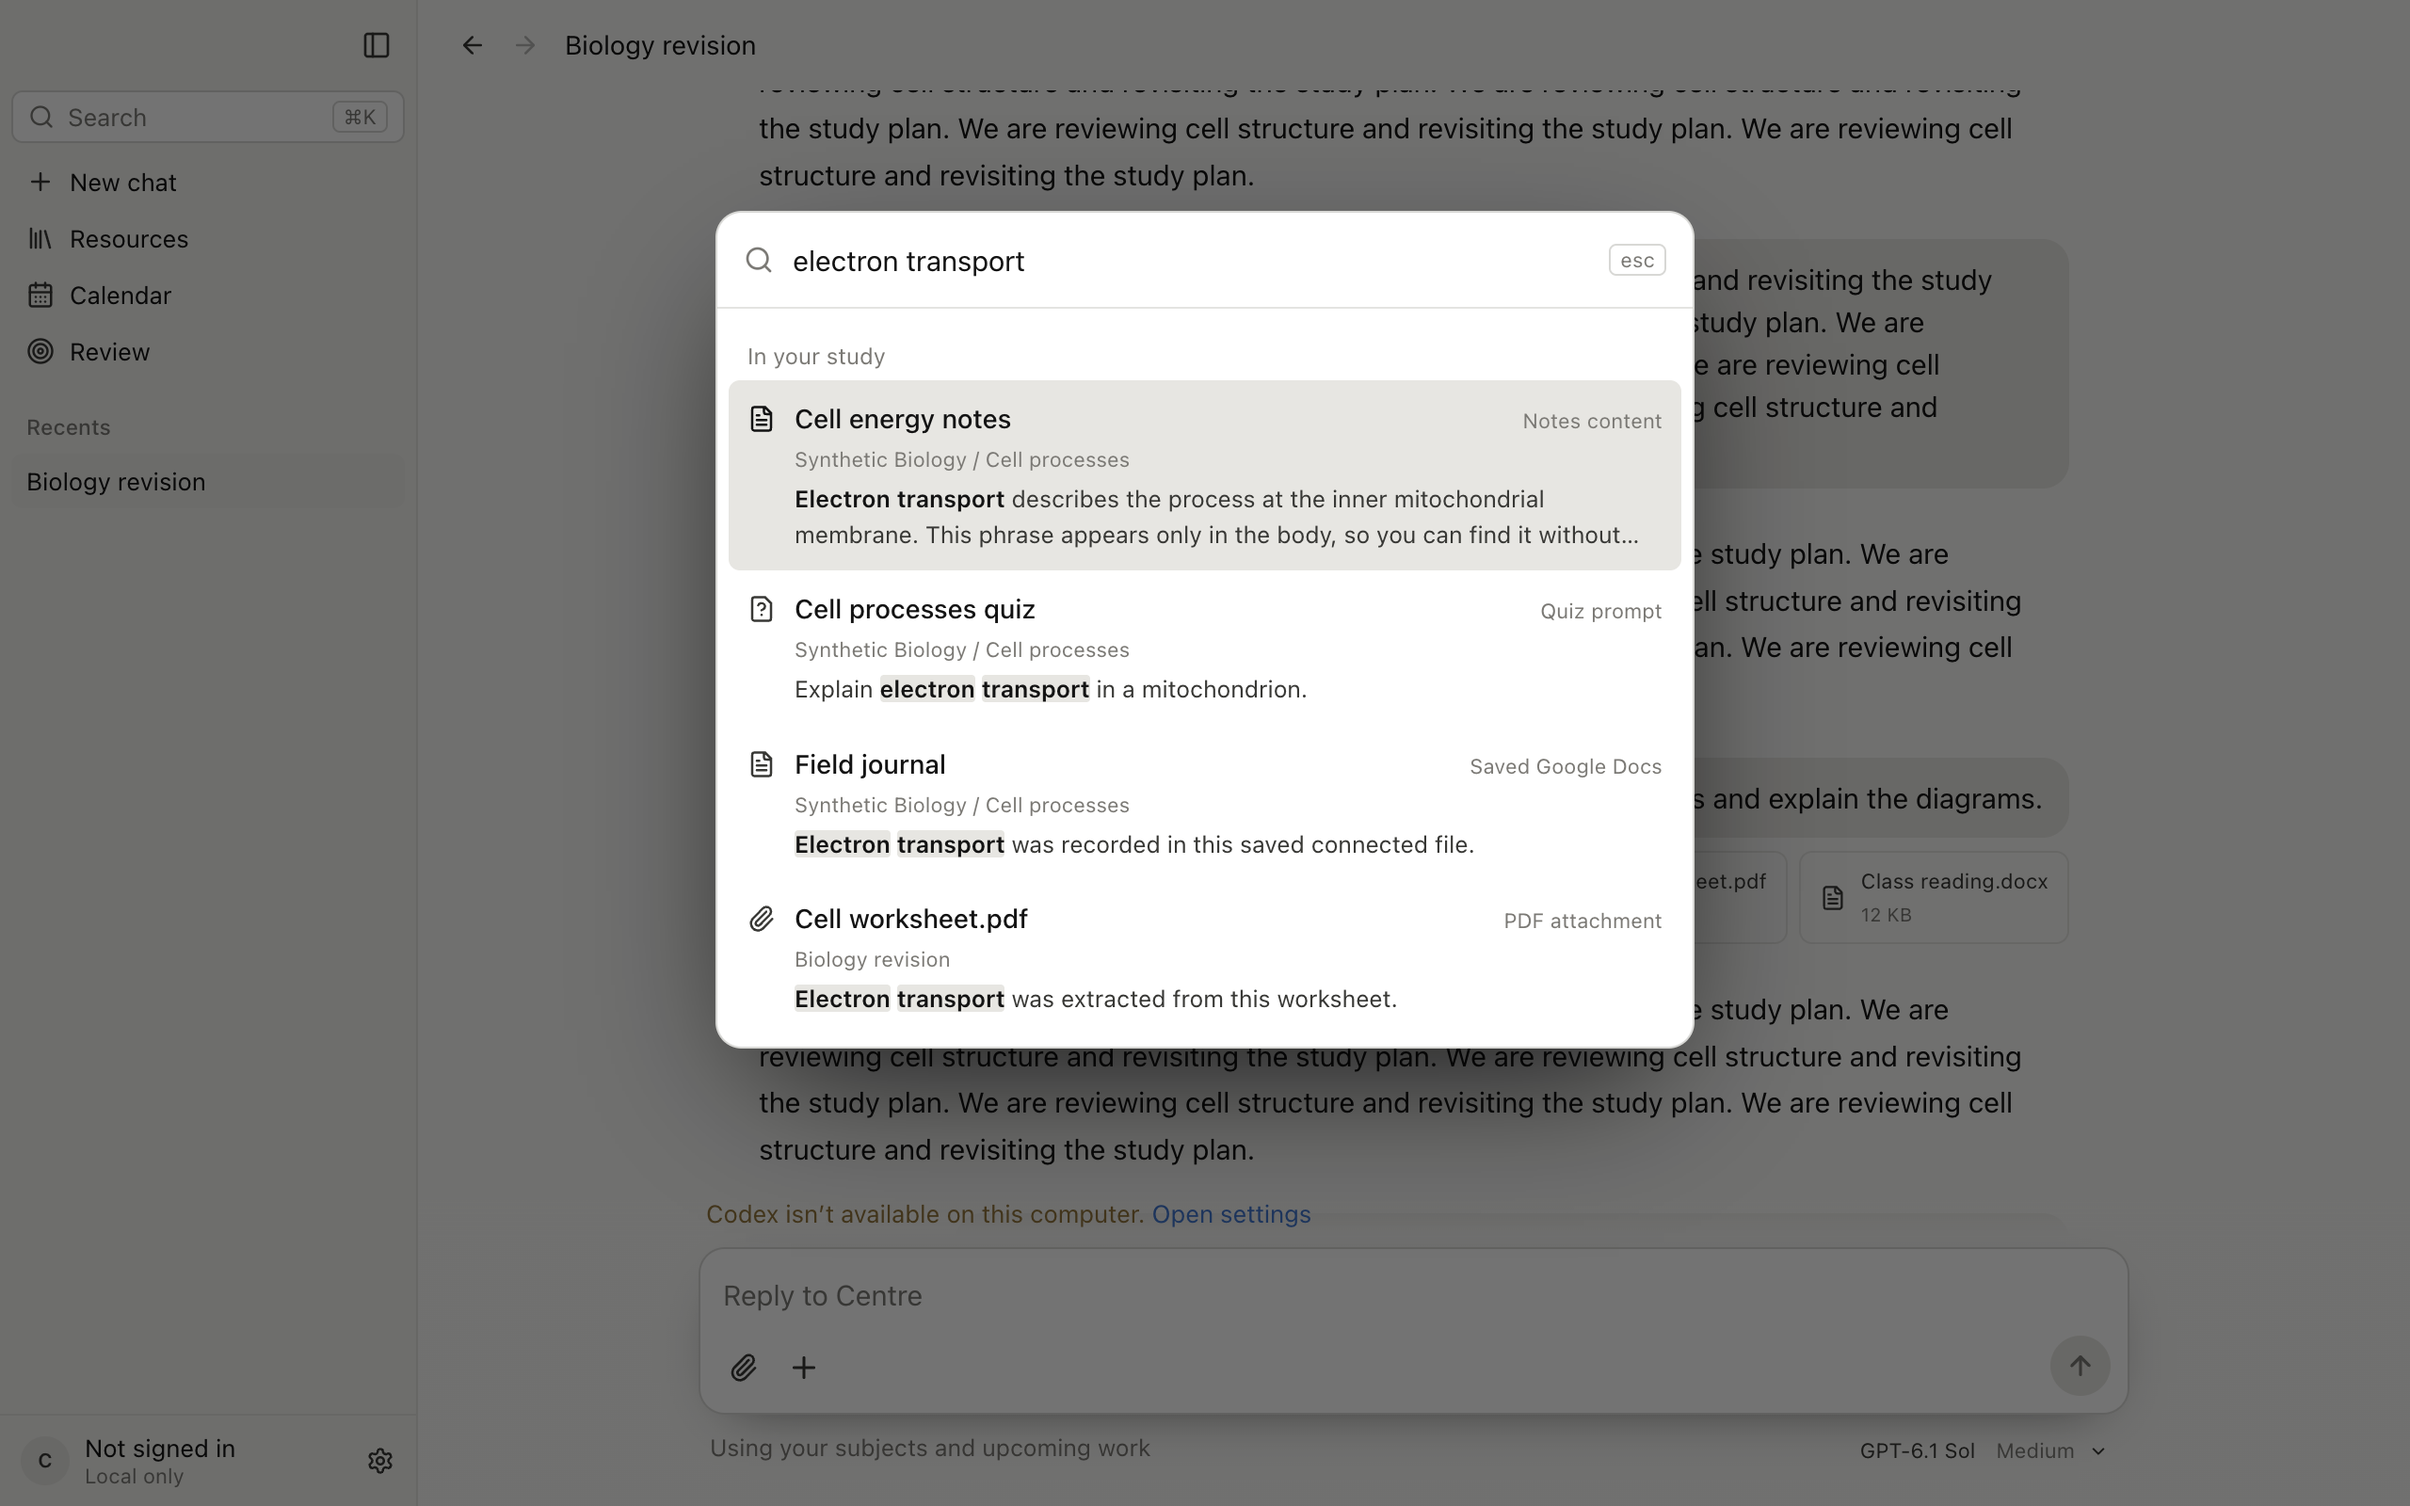
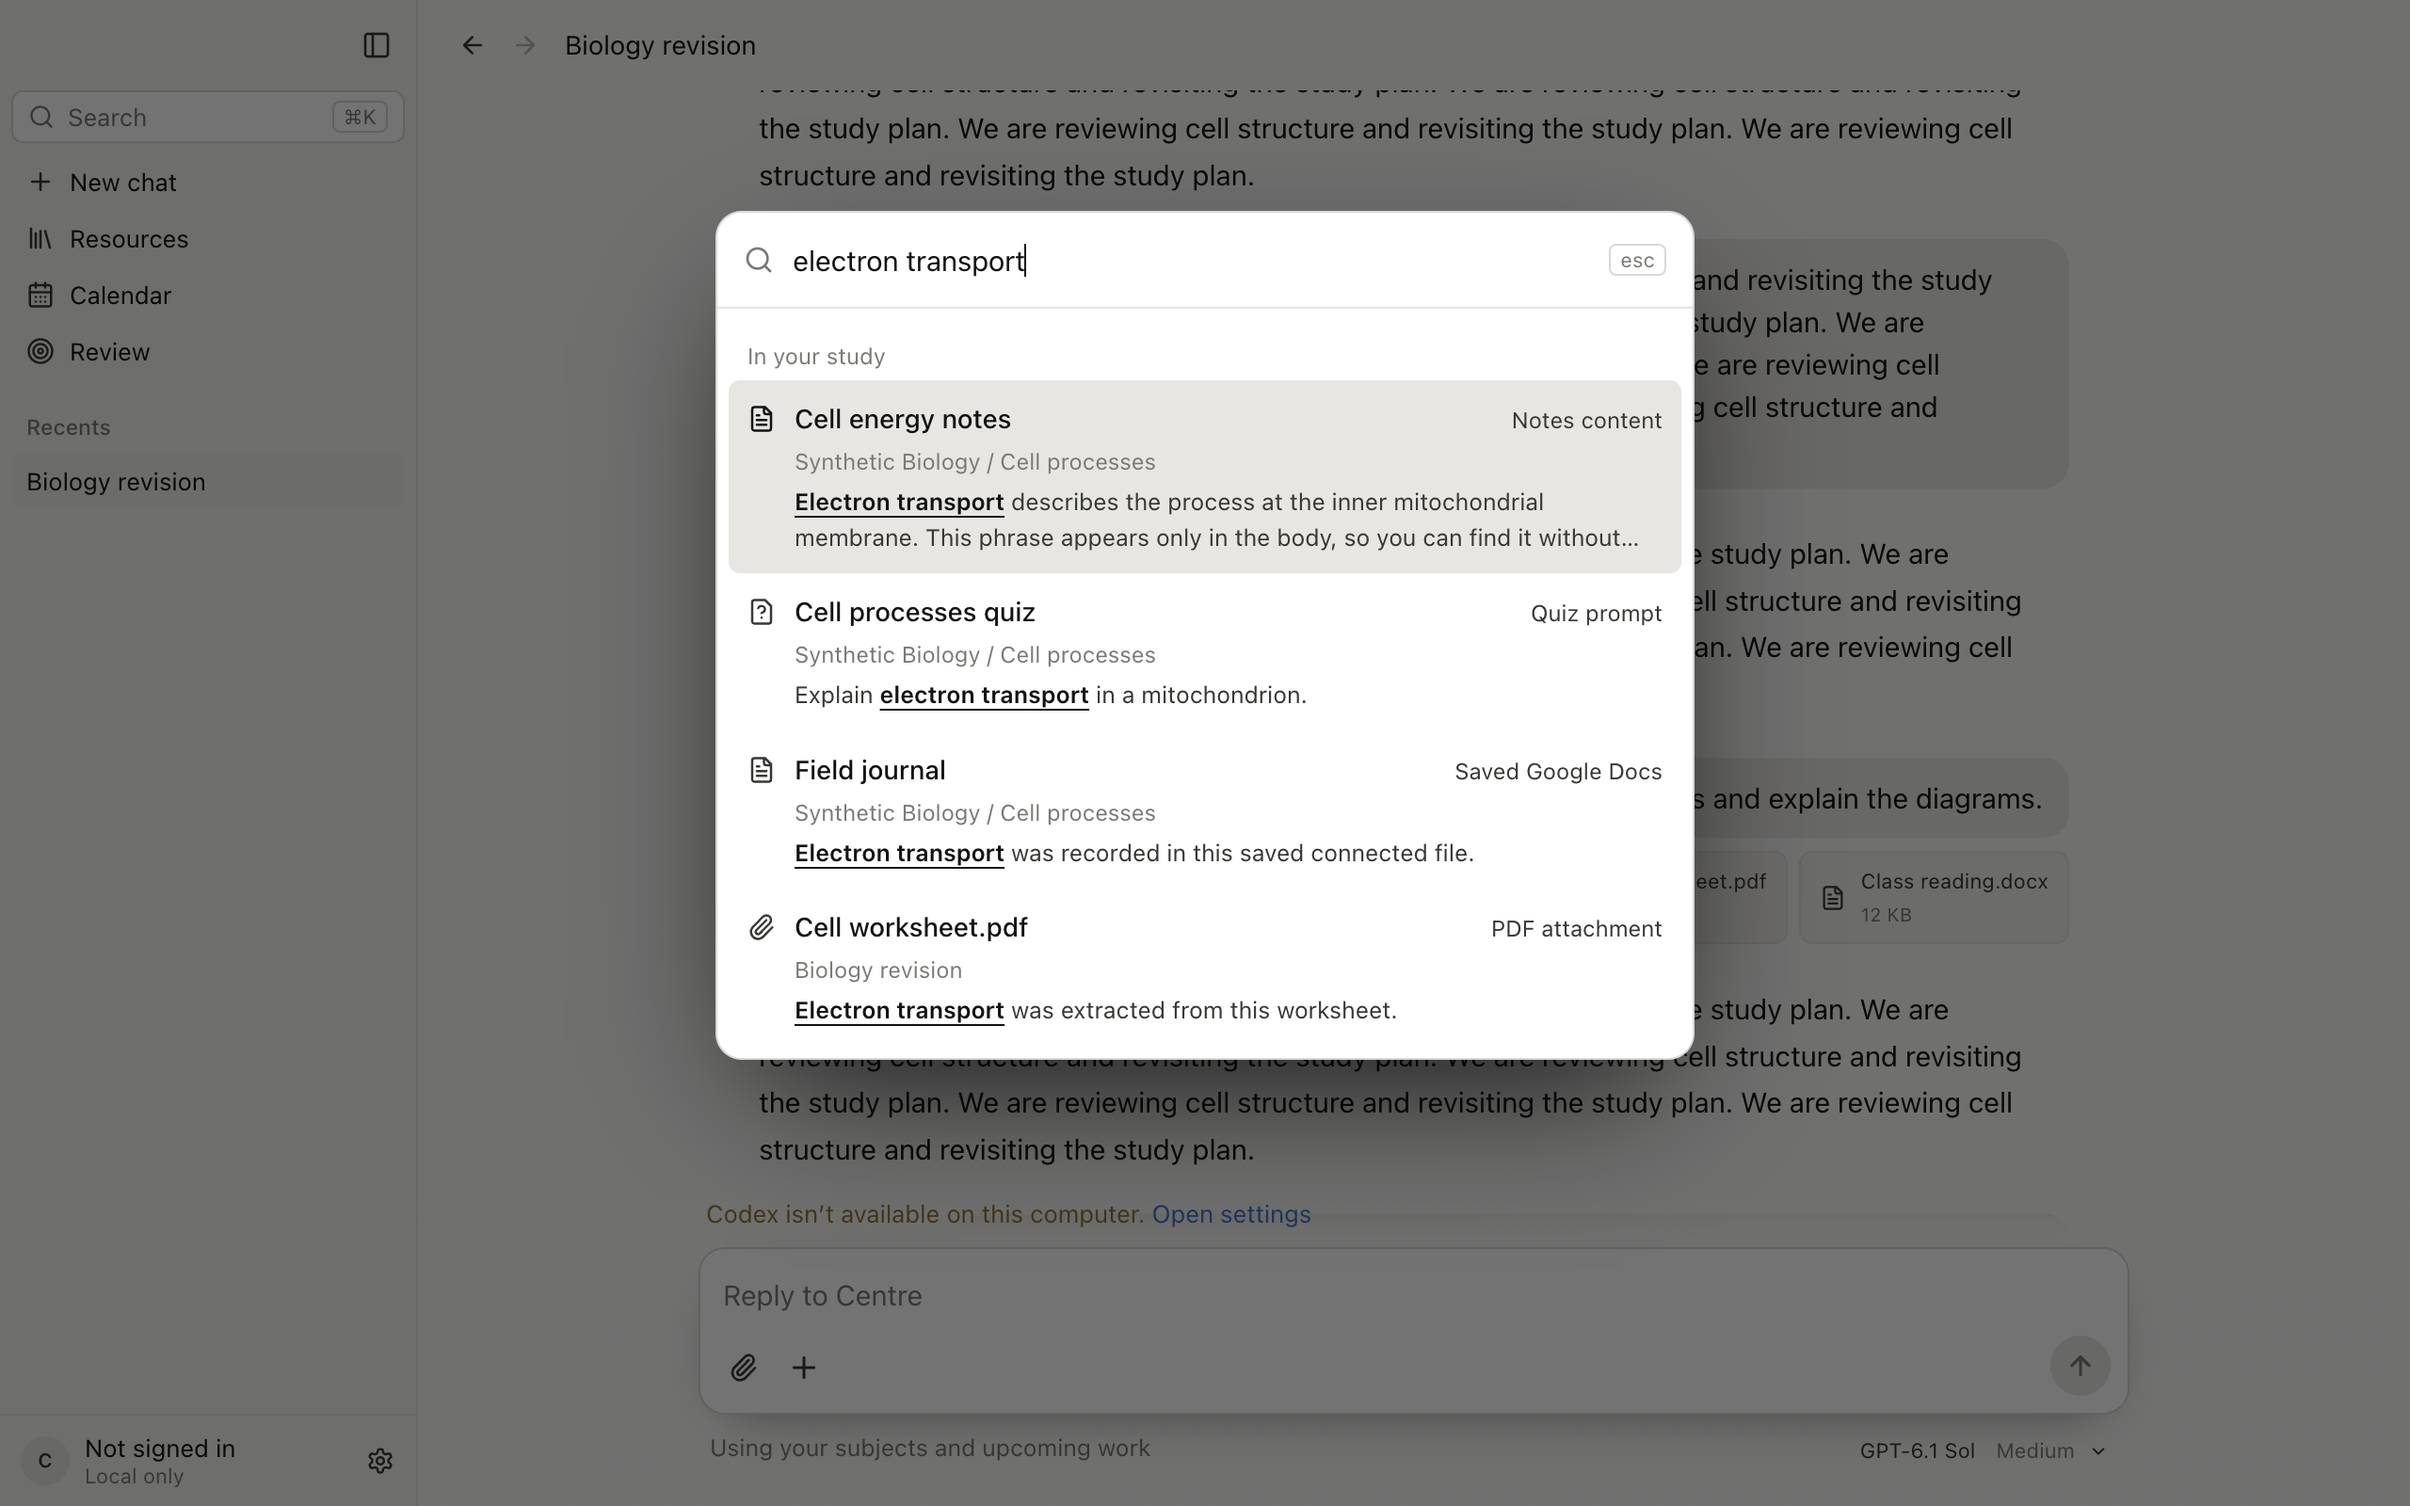
Fix SEARCH-2 phrase ranges, selected contrast and ellipsis

diff --git a/server/search-index.test.ts b/server/search-index.test.ts
@@ -180,7 +180,7 @@ test('Unicode, punctuation, empty queries, and bounded snippets retain valid hig
     assert.ok(result.highlights.length > 0 && result.highlights.length <= 24);
     for (const [start, end] of result.highlights) {
       assert.ok(start >= 0 && start < end && end <= result.snippet.length);
-      assert.equal(result.snippet.slice(start, end), 'evidence');
+      assert.match(result.snippet.slice(start, end), /^evidence(?:\s+evidence)*$/u);
     }
   }
 });
@@ -374,7 +374,7 @@ test('the final query token matches a longer indexed word and highlights that or
     assert.deepEqual(results.map(result => result.id), ['resource:mitochondrial']);
     const result = results[0];
     assert.ok(result);
-    assert.ok(result.highlights.some(([start, end]) => result.snippet.slice(start, end) === 'mitochondrial'));
+    assert.ok(result.highlights.some(([start, end]) => result.snippet.slice(start, end).includes('mitochondrial')));
   }
 });
 
@@ -423,4 +423,15 @@ test('deleted content disappears even while an attachment rebuild is waiting on 
   assert.deepEqual(index.search('chatprivatephrase'), []);
   release();
   await rebuilding;
+});
+
+test('phrase highlights merge across whitespace and clipped snippets keep ellipsis attached', async () => {
+  const snapshot = emptySnapshot();
+  snapshot.resources.push(resource('phrase', { content: `Opening electron transport ${'supporting context '.repeat(40)}` }));
+  const index = new SearchIndex(noAttachments);
+  await index.rebuild(snapshot);
+  const [hit] = index.search('electron transport');
+  assert.ok(hit);
+  assert.deepEqual(hit.highlights.map(([start, end]) => hit.snippet.slice(start, end)), ['electron transport']);
+  assert.ok(hit.snippet.endsWith('\u00a0…'));
 });

diff --git a/src/ui/centre.css b/src/ui/centre.css
@@ -2400,10 +2400,10 @@ kbd {
 .palette__match { display: grid; gap: 3px; min-width: 0; flex: 1; }
 .palette__heading { display: flex; align-items: baseline; gap: 12px; min-width: 0; }
 .palette__heading .palette__label { flex: 1; max-width: none; font-weight: 500; }
-.palette__source { flex: none; color: var(--text-3); font-size: 0.6875rem; }
-.palette__context { color: var(--text-3); font-size: 0.6875rem; overflow: hidden; text-overflow: ellipsis; white-space: nowrap; }
+.palette__source { flex: none; color: var(--text-2); font-size: 0.75rem; }
+.palette__context { color: var(--text-3); font-size: 0.75rem; overflow: hidden; text-overflow: ellipsis; white-space: nowrap; }
 .palette__snippet { color: var(--text-2); font-size: 0.78125rem; line-height: 1.5; overflow-wrap: anywhere; display: -webkit-box; -webkit-box-orient: vertical; -webkit-line-clamp: 2; overflow: hidden; }
-.palette__snippet mark { color: var(--text); background: var(--surface-4, var(--surface-3)); border-radius: 2px; font-weight: 600; }
+.palette__snippet mark { color: var(--text); background: transparent; font-weight: 600; text-decoration: underline; text-decoration-thickness: 1px; text-underline-offset: 3px; }
 [id^='resource-question-'], [id^='chat-message-'] { scroll-margin-block: 24px; }
 
 /* Forms */

diff --git a/server/search-index.ts b/server/search-index.ts
@@ -93,8 +93,8 @@ export function makeSearchSnippet(text: string, positions: ReadonlyMap<string, T
   const raw = text.slice(start, end);
   const leftTrim = raw.length - raw.trimStart().length;
   const visibleText = raw.trim();
-  const prefix = start > beginning ? '… ' : '';
-  const suffix = end < limit ? ' …' : '';
+  const prefix = start > beginning ? '…\u00a0' : '';
+  const suffix = end < limit ? '\u00a0…' : '';
   const snippet = `${prefix}${visibleText}${suffix}`.slice(0, MAX_SEARCH_SNIPPET_LENGTH);
   const visibleStart = start + leftTrim;
   const snippetStart = prefix.length;
@@ -118,7 +118,13 @@ export function makeSearchSnippet(text: string, positions: ReadonlyMap<string, T
   }
   highlights.sort((left, right) => left[0] - right[0]);
   highlights.length = Math.min(highlights.length, 24);
-  return { snippet, highlights };
+  const merged: [number, number][] = [];
+  for (const range of highlights) {
+    const previous = merged[merged.length - 1];
+    if (previous && /^\s*$/u.test(snippet.slice(previous[1], range[0]))) previous[1] = Math.max(previous[1], range[1]);
+    else merged.push(range);
+  }
+  return { snippet, highlights: merged };
 }
 
 function phraseMatches(document: IndexedDocument, queryTerms: readonly string[]): boolean {
